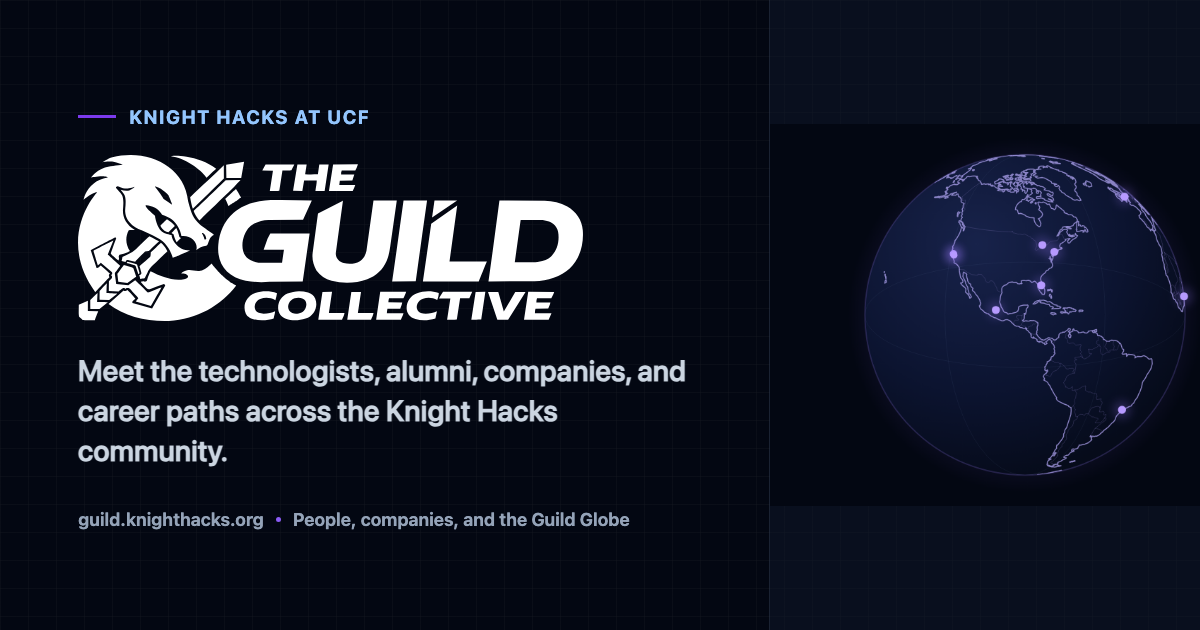
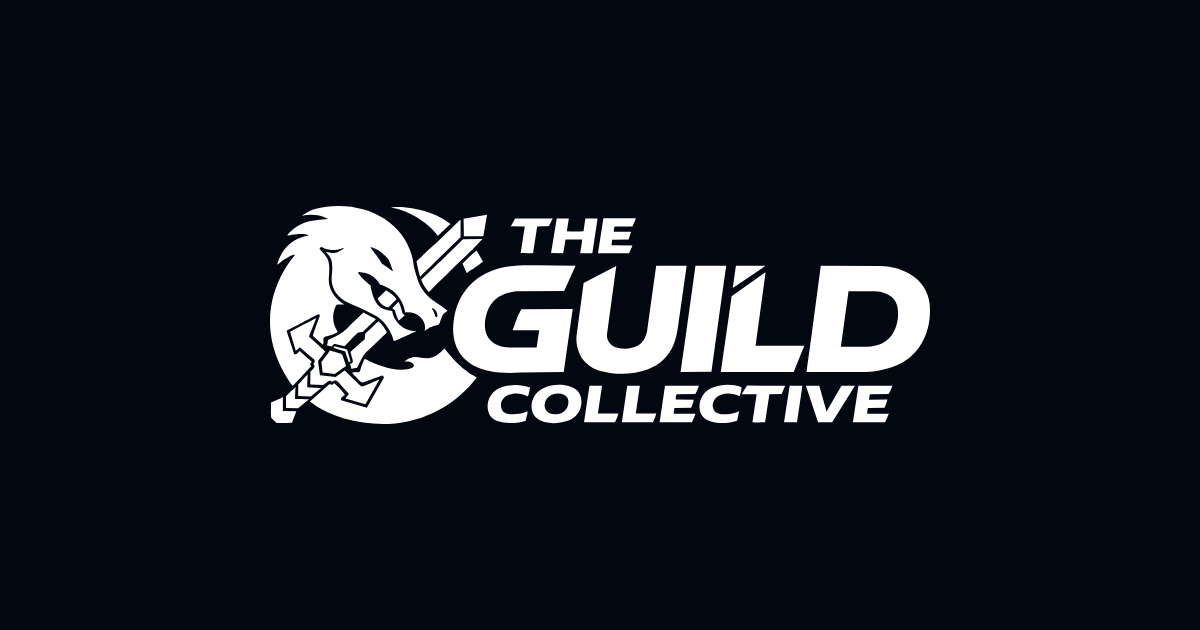
simplified social cards and metadata copy

Changed region(s): [[0.0617, 0.2413, 1.0, 0.754], [0.0617, 0.8143, 0.5242, 0.8444], [0.0617, 0.1508, 0.3083, 0.2111]]

diff --git a/apps/guild/src/app/seo.ts b/apps/guild/src/app/seo.ts
@@ -3,9 +3,9 @@ import type { Metadata } from "next";
 export const SITE_URL = "https://guild.knighthacks.org";
 export const SITE_NAME = "Guild Collective";
 
-export const SEO_TITLE = "Guild Collective | Knight Hacks Member Network";
+export const SEO_TITLE = "Guild Collective | Knight Hacks";
 export const SEO_DESCRIPTION =
-  "Explore the Guild Collective, Knight Hacks' public member and alumni network at UCF. Discover technologists, career paths, companies, and where the community is building.";
+  "The Guild Collective is Knight Hacks' directory for members and alumni at UCF. Browse profiles and see where people work or live.";
 
 export const SEO_KEYWORDS = [
   "Knight Hacks Guild Collective",
@@ -21,8 +21,7 @@ export const SEO_KEYWORDS = [
 export const OG_IMAGE_URL = `${SITE_URL}/guild-social-card.png`;
 export const OG_IMAGE_WIDTH = 1200;
 export const OG_IMAGE_HEIGHT = 630;
-export const OG_IMAGE_ALT =
-  "The Guild Collective, Knight Hacks' member and alumni network at UCF";
+export const OG_IMAGE_ALT = "The Guild Collective logo on a dark background";
 
 export function absoluteUrl(path = "/") {
   return new URL(path, SITE_URL).toString();

diff --git a/apps/blade/src/app/seo.ts b/apps/blade/src/app/seo.ts
@@ -1,9 +1,9 @@
 export const SITE_URL = "https://blade.knighthacks.org";
 export const SITE_NAME = "Blade by Knight Hacks";
 
-export const SEO_TITLE = "Blade | Knight Hacks Member Platform";
+export const SEO_TITLE = "Blade | Knight Hacks";
 export const SEO_DESCRIPTION =
-  "Blade is the Knight Hacks member platform for managing membership, events, dues, profiles, forms, and club operations at the University of Central Florida.";
+  "Blade is where Knight Hacks members manage club activity at UCF, including their profiles, dues, and events.";
 
 export const SEO_KEYWORDS = [
   "Blade by Knight Hacks",
@@ -19,8 +19,7 @@ export const SEO_KEYWORDS = [
 export const OG_IMAGE_URL = `${SITE_URL}/blade-social-card.png`;
 export const OG_IMAGE_WIDTH = 1200;
 export const OG_IMAGE_HEIGHT = 630;
-export const OG_IMAGE_ALT =
-  "Blade, the Knight Hacks member platform at the University of Central Florida";
+export const OG_IMAGE_ALT = "Blade logo on a dark background";
 
 export const bladeJsonLd = {
   "@context": "https://schema.org",

diff --git a/apps/guild/src/app/members/[memberId]/page.tsx b/apps/guild/src/app/members/[memberId]/page.tsx
@@ -50,7 +50,7 @@ export async function generateMetadata({
       title: name,
       description:
         profile.tagline ??
-        `${name} is part of the Knight Hacks Guild Collective.`,
+        `View ${name}'s profile in the Knight Hacks Guild Collective.`,
       alternates: {
         canonical: `/members/${profile.id}`,
       },
@@ -58,7 +58,7 @@ export async function generateMetadata({
         title: `${name} | Guild Collective`,
         description:
           profile.tagline ??
-          `${name} is part of the Knight Hacks Guild Collective.`,
+          `View ${name}'s profile in the Knight Hacks Guild Collective.`,
         url: `/members/${profile.id}`,
         images: profile.profilePictureUrl
           ? [{ url: profile.profilePictureUrl, alt: name }]

diff --git a/apps/guild/src/app/companies/[companyId]/page.tsx b/apps/guild/src/app/companies/[companyId]/page.tsx
@@ -34,7 +34,7 @@ export async function generateMetadata({
   const data = await getCompany(companyId);
   return createPageMetadata({
     title: data.company.displayName,
-    description: `Knight Hacks members and alumni connected to ${data.company.displayName}.`,
+    description: `See the Knight Hacks members and alumni who have worked at ${data.company.displayName}.`,
     path: `/companies/${data.company.id}`,
   });
 }

diff --git a/apps/blade/src/app/admin/issues/calendar/page.tsx b/apps/blade/src/app/admin/issues/calendar/page.tsx
@@ -4,7 +4,7 @@ import type { IssueSearchParams } from "~/app/_components/admin/issues/params";
 import { renderIssueWorkspace } from "~/app/_components/admin/issues/server";
 
 export const metadata: Metadata = {
-  description: "Coordinate cross-team Club work on a shared due-date calendar.",
+  description: "See Club issue deadlines on a shared calendar.",
   title: "Blade | Issues Calendar",
 };
 

diff --git a/apps/blade/src/app/member/forms/page.tsx b/apps/blade/src/app/member/forms/page.tsx
@@ -4,7 +4,7 @@ import { MemberFormHistory } from "~/app/_components/member/member-form-history"
 import { api, HydrateClient } from "~/trpc/server";
 
 export const metadata: Metadata = {
-  description: "Review your retained Knight Hacks form responses.",
+  description: "Review the Knight Hacks forms you have submitted.",
   title: "Blade | Previous Forms",
 };
 

diff --git a/apps/blade/src/app/admin/email/page.tsx b/apps/blade/src/app/admin/email/page.tsx
@@ -11,7 +11,8 @@ import { auth } from "~/server/auth";
 import { api, HydrateClient } from "~/trpc/server";
 
 export const metadata: Metadata = {
-  description: "Build, schedule, and reconcile Knight Hacks email campaigns.",
+  description:
+    "Create Knight Hacks email campaigns and check their delivery status.",
   title: "Blade | Email Portal",
 };
 

diff --git a/apps/blade/src/app/admin/analytics/page.tsx b/apps/blade/src/app/admin/analytics/page.tsx
@@ -15,8 +15,7 @@ import { auth } from "~/server/auth";
 import { api, HydrateClient } from "~/trpc/server";
 
 export const metadata: Metadata = {
-  description:
-    "Analyze Knight Hacks Club turnout, audience, dues, and feedback.",
+  description: "Review Knight Hacks turnout, dues, feedback, and member data.",
   title: "Blade | Club Analytics",
 };
 

diff --git a/apps/blade/src/app/admin/companies/page.tsx b/apps/blade/src/app/admin/companies/page.tsx
@@ -10,7 +10,7 @@ import { api, HydrateClient } from "~/trpc/server";
 
 export const metadata: Metadata = {
   title: "Blade | Company Admin",
-  description: "Review Guild companies and member career histories.",
+  description: "Review Guild companies and member work histories.",
 };
 
 export default async function AdminCompaniesPage() {

diff --git a/apps/blade/src/app/admin/forms/page.tsx b/apps/blade/src/app/admin/forms/page.tsx
@@ -9,7 +9,7 @@ import { auth } from "~/server/auth";
 import { api, HydrateClient } from "~/trpc/server";
 
 export const metadata: Metadata = {
-  description: "Create, publish, share, and review Knight Hacks forms.",
+  description: "Create and manage Knight Hacks forms and their responses.",
   title: "Blade | Form Administration",
 };
 

diff --git a/apps/blade/src/app/admin/roles/page.tsx b/apps/blade/src/app/admin/roles/page.tsx
@@ -12,7 +12,7 @@ import { api, HydrateClient } from "~/trpc/server";
 
 export const metadata: Metadata = {
   title: "Blade | Role Management",
-  description: "Configure Discord-backed Blade roles and assignments.",
+  description: "Manage Blade roles and their Discord connections.",
 };
 
 export default async function AdminRolesPage({

diff --git a/apps/guild/src/app/companies/page.tsx b/apps/guild/src/app/companies/page.tsx
@@ -8,8 +8,7 @@ import { api } from "~/trpc/server";
 
 export const metadata: Metadata = createPageMetadata({
   title: "Guild Companies",
-  description:
-    "Explore where Knight Hacks members and alumni have worked across the Guild.",
+  description: "See where Guild members and alumni have worked.",
   path: "/companies",
 });
 
